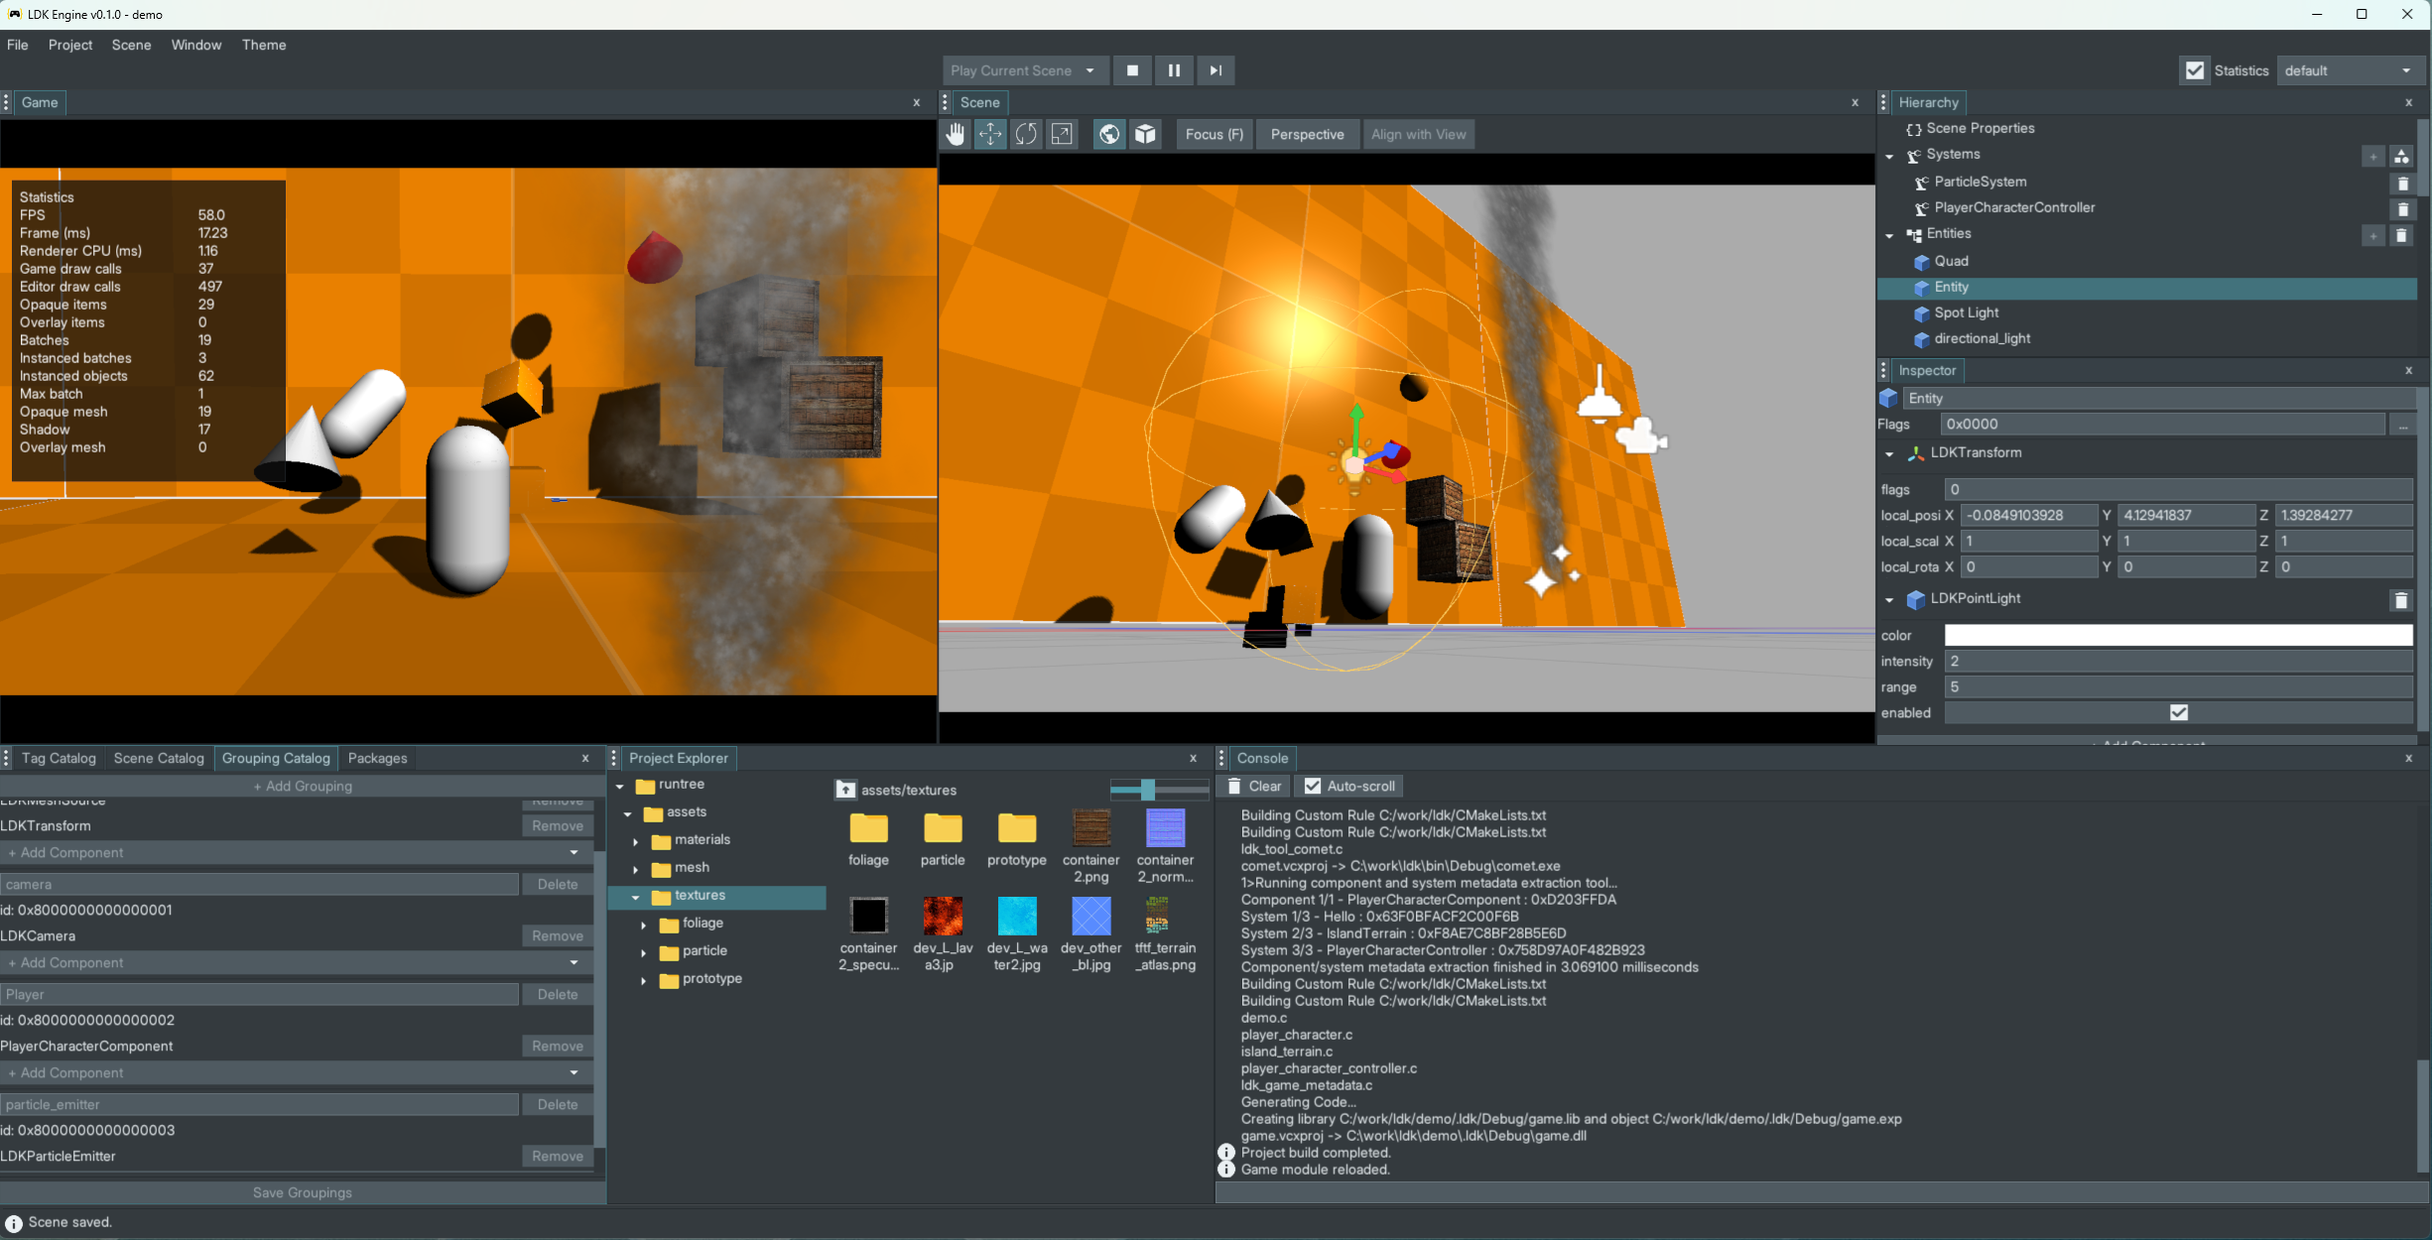
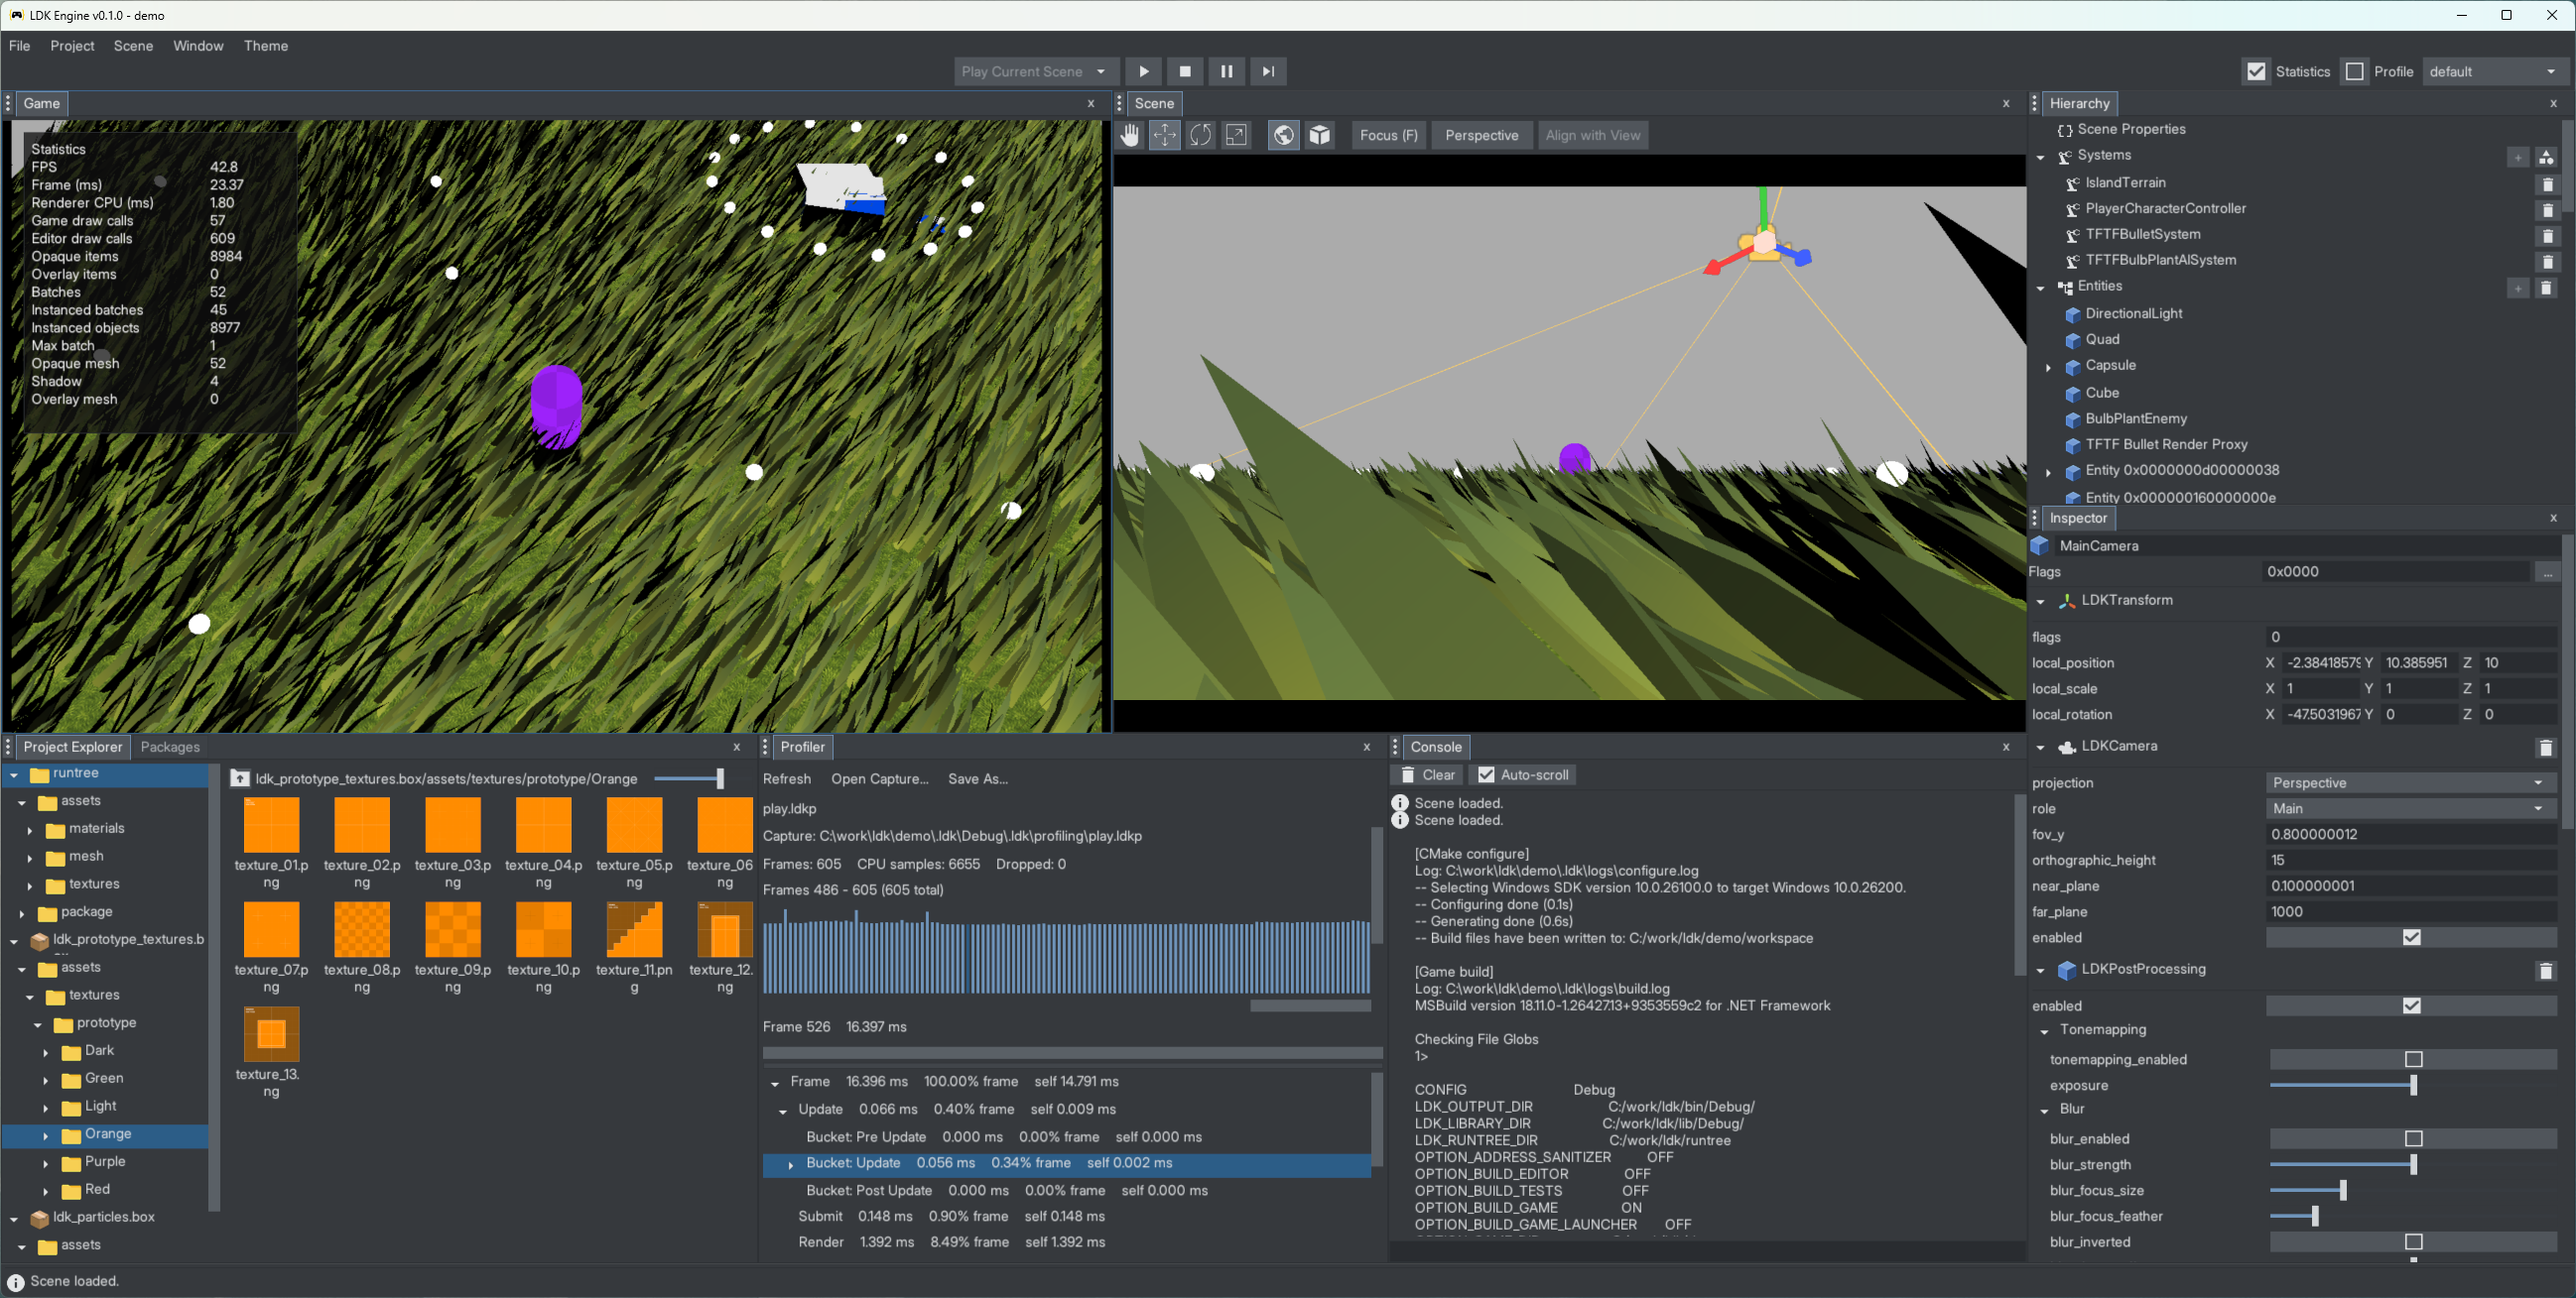
[ui] Keyboard navigation through UI widgets with TAB and SHFIT+TAB

diff --git a/src/module/ldk_ui.c b/src/module/ldk_ui.c
@@ -706,6 +706,22 @@ static bool s_ui_input_keyboard_enter_pressed(LDKUIContext *ctx)
 }
 
 /**
+ * Checks whether Space was pressed during the current frame.
+ * @arg ctx UI context that provides the current keyboard state.
+ * @return true when Space was pressed. False otherwise.
+ */
+static bool s_ui_input_keyboard_space_pressed(LDKUIContext *ctx)
+{
+  if (ctx->keyboard == NULL)
+  {
+    return false;
+  }
+
+  return ldk_os_keyboard_key_down(
+      (LDKKeyboardState *)ctx->keyboard, LDK_KEYCODE_SPACE);
+}
+
+/**
  * Checks whether the Left Arrow key was pressed during the current frame.
  * @arg ctx UI context that provides the current keyboard state.
  * @return true when Left Arrow was pressed. False otherwise.
@@ -2050,17 +2066,128 @@ static bool s_ui_take_next_disabled(LDKUIContext *ctx)
 }
 
 /**
+ * Finds the control that should receive focus after a Tab key press.
+ * Uses the focus order collected during the previous frame so forward and
+ * backward traversal have identical behavior in immediate mode.
+ * @arg ctx UI context containing the previous frame focus order.
+ * @arg backwards Whether traversal should move to the previous control.
+ */
+static void s_ui_tab_focus_resolve(LDKUIContext *ctx, bool backwards)
+{
+  u32 count;
+  u32 first_index = UINT32_MAX;
+  u32 last_index = UINT32_MAX;
+  u32 previous_index = UINT32_MAX;
+  u32 next_index = UINT32_MAX;
+  u32 focused_index = UINT32_MAX;
+  LDKUIId window_id;
+
+  if (ctx == NULL || ctx->previous_tab_focus_entries == NULL)
+  {
+    return;
+  }
+
+  count = x_array_ldk_ui_tab_focus_entry_count(
+      ctx->previous_tab_focus_entries);
+  window_id = ctx->focused_window_id;
+
+  for (u32 i = 0; i < count; ++i)
+  {
+    LDKUITabFocusEntry *entry = x_array_ldk_ui_tab_focus_entry_get(
+        ctx->previous_tab_focus_entries, i);
+
+    if (entry == NULL || entry->window_id != window_id)
+    {
+      continue;
+    }
+
+    if (first_index == UINT32_MAX)
+    {
+      first_index = i;
+    }
+
+    last_index = i;
+
+    if (focused_index == UINT32_MAX)
+    {
+      if (entry->item_id == ctx->focused_id)
+      {
+        focused_index = i;
+      }
+      else
+      {
+        previous_index = i;
+      }
+    }
+    else if (next_index == UINT32_MAX)
+    {
+      next_index = i;
+    }
+  }
+
+  if (first_index == UINT32_MAX)
+  {
+    return;
+  }
+
+  u32 target_index;
+
+  if (focused_index == UINT32_MAX)
+  {
+    target_index = backwards ? last_index : first_index;
+  }
+  else if (backwards)
+  {
+    target_index = previous_index != UINT32_MAX ? previous_index : last_index;
+  }
+  else
+  {
+    target_index = next_index != UINT32_MAX ? next_index : first_index;
+  }
+
+  LDKUITabFocusEntry *target = x_array_ldk_ui_tab_focus_entry_get(
+      ctx->previous_tab_focus_entries, target_index);
+
+  if (target != NULL)
+  {
+    ctx->tab_focus_id = target->item_id;
+    ctx->tab_focus_window_id = target->window_id;
+  }
+}
+
+/**
+ * Registers a focusable control in the current frame Tab order.
+ * @arg ctx UI context that owns the focus order.
+ * @arg id Identifier of the focusable control.
+ */
+static void s_ui_tab_focus_register(LDKUIContext *ctx, LDKUIId id)
+{
+  LDKUITabFocusEntry entry = {0};
+
+  if (ctx == NULL || ctx->tab_focus_entries == NULL || id == 0)
+  {
+    return;
+  }
+
+  entry.window_id = ctx->current_window != NULL ? ctx->current_window->id : 0;
+  entry.item_id = id;
+  x_array_ldk_ui_tab_focus_entry_push(ctx->tab_focus_entries, entry);
+}
+
+/**
  * Calculates item interaction and visual state for the current frame.
  * @arg ctx UI context containing mouse, focus, and active item state.
  * @arg id Identifier of the item being evaluated.
  * @arg rect Screen-space rectangle occupied by the item.
  * @arg clip Clip rectangle that limits the item's interactive area.
  * @arg focusable Whether pressing the item can assign keyboard focus.
+ * @arg keyboard_clickable Whether Enter or Space can activate the item.
  * @arg disabled Whether the item must ignore interaction.
  * @return Complete per-frame interaction and visual state for the item.
  */
 static LDKUIFrameState s_ui_frame_state(LDKUIContext *ctx, LDKUIId id,
-    LDKUIRect rect, LDKUIRect clip, bool focusable, bool disabled)
+    LDKUIRect rect, LDKUIRect clip, bool focusable, bool keyboard_clickable,
+    bool disabled)
 {
   LDKUIFrameState state = {0};
   bool focus_requested = false;
@@ -2079,6 +2206,21 @@ static LDKUIFrameState s_ui_frame_state(LDKUIContext *ctx, LDKUIId id,
   if (focus_requested)
   {
     ctx->next_focus = false;
+  }
+
+  if (focusable && !disabled)
+  {
+    LDKUIId window_id =
+        ctx->current_window != NULL ? ctx->current_window->id : 0;
+
+    s_ui_tab_focus_register(ctx, id);
+
+    if (ctx->tab_focus_id == id && ctx->tab_focus_window_id == window_id)
+    {
+      focus_requested = true;
+      ctx->tab_focus_id = 0;
+      ctx->tab_focus_window_id = 0;
+    }
   }
 
   if (disabled)
@@ -2153,7 +2295,14 @@ static LDKUIFrameState s_ui_frame_state(LDKUIContext *ctx, LDKUIId id,
 
   state.clicked = state.active && state.hot && state.released;
 
-  if (state.active && state.hot)
+  if (focusable && keyboard_clickable && state.focused &&
+      (s_ui_input_keyboard_enter_pressed(ctx) ||
+          s_ui_input_keyboard_space_pressed(ctx)))
+  {
+    state.clicked = true;
+  }
+
+  if (state.active && (state.hot || state.focused))
   {
     state.visual_state = LDK_UI_CONTROL_VISUAL_STATE_ACTIVE_HOVERED;
   }
@@ -2161,7 +2310,7 @@ static LDKUIFrameState s_ui_frame_state(LDKUIContext *ctx, LDKUIId id,
   {
     state.visual_state = LDK_UI_CONTROL_VISUAL_STATE_ACTIVE;
   }
-  else if (state.hot)
+  else if (state.hot || state.focused)
   {
     state.visual_state = LDK_UI_CONTROL_VISUAL_STATE_HOVERED;
   }
@@ -2203,6 +2352,8 @@ bool ldk_ui_initialize(LDKUIContext *ctx, LDKUIConfig const *config)
       x_array_ldk_ui_draw_cmd_create(config->initial_command_capacity);
   ctx->disabled_stack = x_array_ldk_ui_bool_create(8);
   ctx->hit_candidates = x_array_ldk_ui_hit_candidate_create(128);
+  ctx->tab_focus_entries = x_array_ldk_ui_tab_focus_entry_create(128);
+  ctx->previous_tab_focus_entries = x_array_ldk_ui_tab_focus_entry_create(128);
   ctx->layout_stack =
       x_array_ldk_ui_layout_create(LDK_UI_LAYOUT_STACK_CAPACITY);
   ctx->windows = x_array_ldk_ui_window_create(initial_window_capacity);
@@ -2245,7 +2396,8 @@ bool ldk_ui_initialize(LDKUIContext *ctx, LDKUIConfig const *config)
          ctx->commands != NULL && ctx->popup_vertices != NULL &&
          ctx->popup_indices != NULL && ctx->popup_commands != NULL &&
          ctx->disabled_stack != NULL && ctx->hit_candidates != NULL &&
-         ctx->layout_stack != NULL && ctx->open_popups != NULL &&
+         ctx->tab_focus_entries != NULL &&
+         ctx->previous_tab_focus_entries != NULL && ctx->layout_stack != NULL && ctx->open_popups != NULL &&
          ctx->popup_stack != NULL && ctx->popup_frame_entries != NULL &&
          ctx->popup_cache != NULL && ctx->windows != NULL &&
          ctx->window_stack != NULL && ctx->measure_entries != NULL &&
@@ -2274,6 +2426,8 @@ void ldk_ui_terminate(LDKUIContext *ctx)
   x_array_destroy(ctx->popup_commands);
   x_array_destroy(ctx->disabled_stack);
   x_array_destroy(ctx->hit_candidates);
+  x_array_destroy(ctx->tab_focus_entries);
+  x_array_destroy(ctx->previous_tab_focus_entries);
   x_array_destroy(ctx->layout_stack);
   x_array_destroy(ctx->open_popups);
   x_array_destroy(ctx->popup_stack);
@@ -2338,6 +2492,25 @@ void ldk_ui_begin_frame(LDKUIContext *ctx, float delta,
   ctx->hit_order = 0;
   ctx->last_rect = (LDKUIRect){0};
   ctx->last_bounding_rect = (LDKUIRect){0};
+  ctx->tab_focus_id = 0;
+  ctx->tab_focus_window_id = 0;
+
+  {
+    XArray_ldk_ui_tab_focus_entry *previous =
+        ctx->previous_tab_focus_entries;
+    ctx->previous_tab_focus_entries = ctx->tab_focus_entries;
+    ctx->tab_focus_entries = previous;
+    x_array_ldk_ui_tab_focus_entry_clear(ctx->tab_focus_entries);
+  }
+
+  if (ctx->keyboard != NULL &&
+      ldk_os_keyboard_key_down(
+          (LDKKeyboardState *)ctx->keyboard, LDK_KEYCODE_TAB))
+  {
+    bool backwards = ldk_os_keyboard_key_is_pressed(
+        (LDKKeyboardState *)ctx->keyboard, LDK_KEYCODE_SHIFT);
+    s_ui_tab_focus_resolve(ctx, backwards);
+  }
 
   x_arena_reset_keep_head(ctx->frame_arena);
   x_array_ldk_ui_id_clear(ctx->id_stack);

diff --git a/include/module/ldk_ui.h b/include/module/ldk_ui.h
@@ -521,7 +521,14 @@ extern "C"
     u32 order;
   };
 
+  typedef struct LDKUITabFocusEntry
+  {
+    LDKUIId window_id;
+    LDKUIId item_id;
+  } LDKUITabFocusEntry;
+
   X_ARRAY_TYPE_NAMED(LDKUIHitCandidate, ldk_ui_hit_candidate);
+  X_ARRAY_TYPE_NAMED(LDKUITabFocusEntry, ldk_ui_tab_focus_entry);
 
   typedef struct LDKUIAreaStackEntry
   {
@@ -602,6 +609,8 @@ extern "C"
     XArray_ldk_ui_draw_cmd *popup_commands;
     XArray_ldk_ui_bool *disabled_stack;
     XArray_ldk_ui_hit_candidate *hit_candidates;
+    XArray_ldk_ui_tab_focus_entry *tab_focus_entries;
+    XArray_ldk_ui_tab_focus_entry *previous_tab_focus_entries;
 
     XArray_ldk_ui_layout *layout_stack;
     u32 layout_frame_index;
@@ -650,6 +659,8 @@ extern "C"
     LDKUIId focused_id;
     LDKUIId last_id;
     LDKUIId input_box_id;
+    LDKUIId tab_focus_id;
+    LDKUIId tab_focus_window_id;
 
     LDKUIId hovered_window_id;
     LDKUIId focused_window_id;
